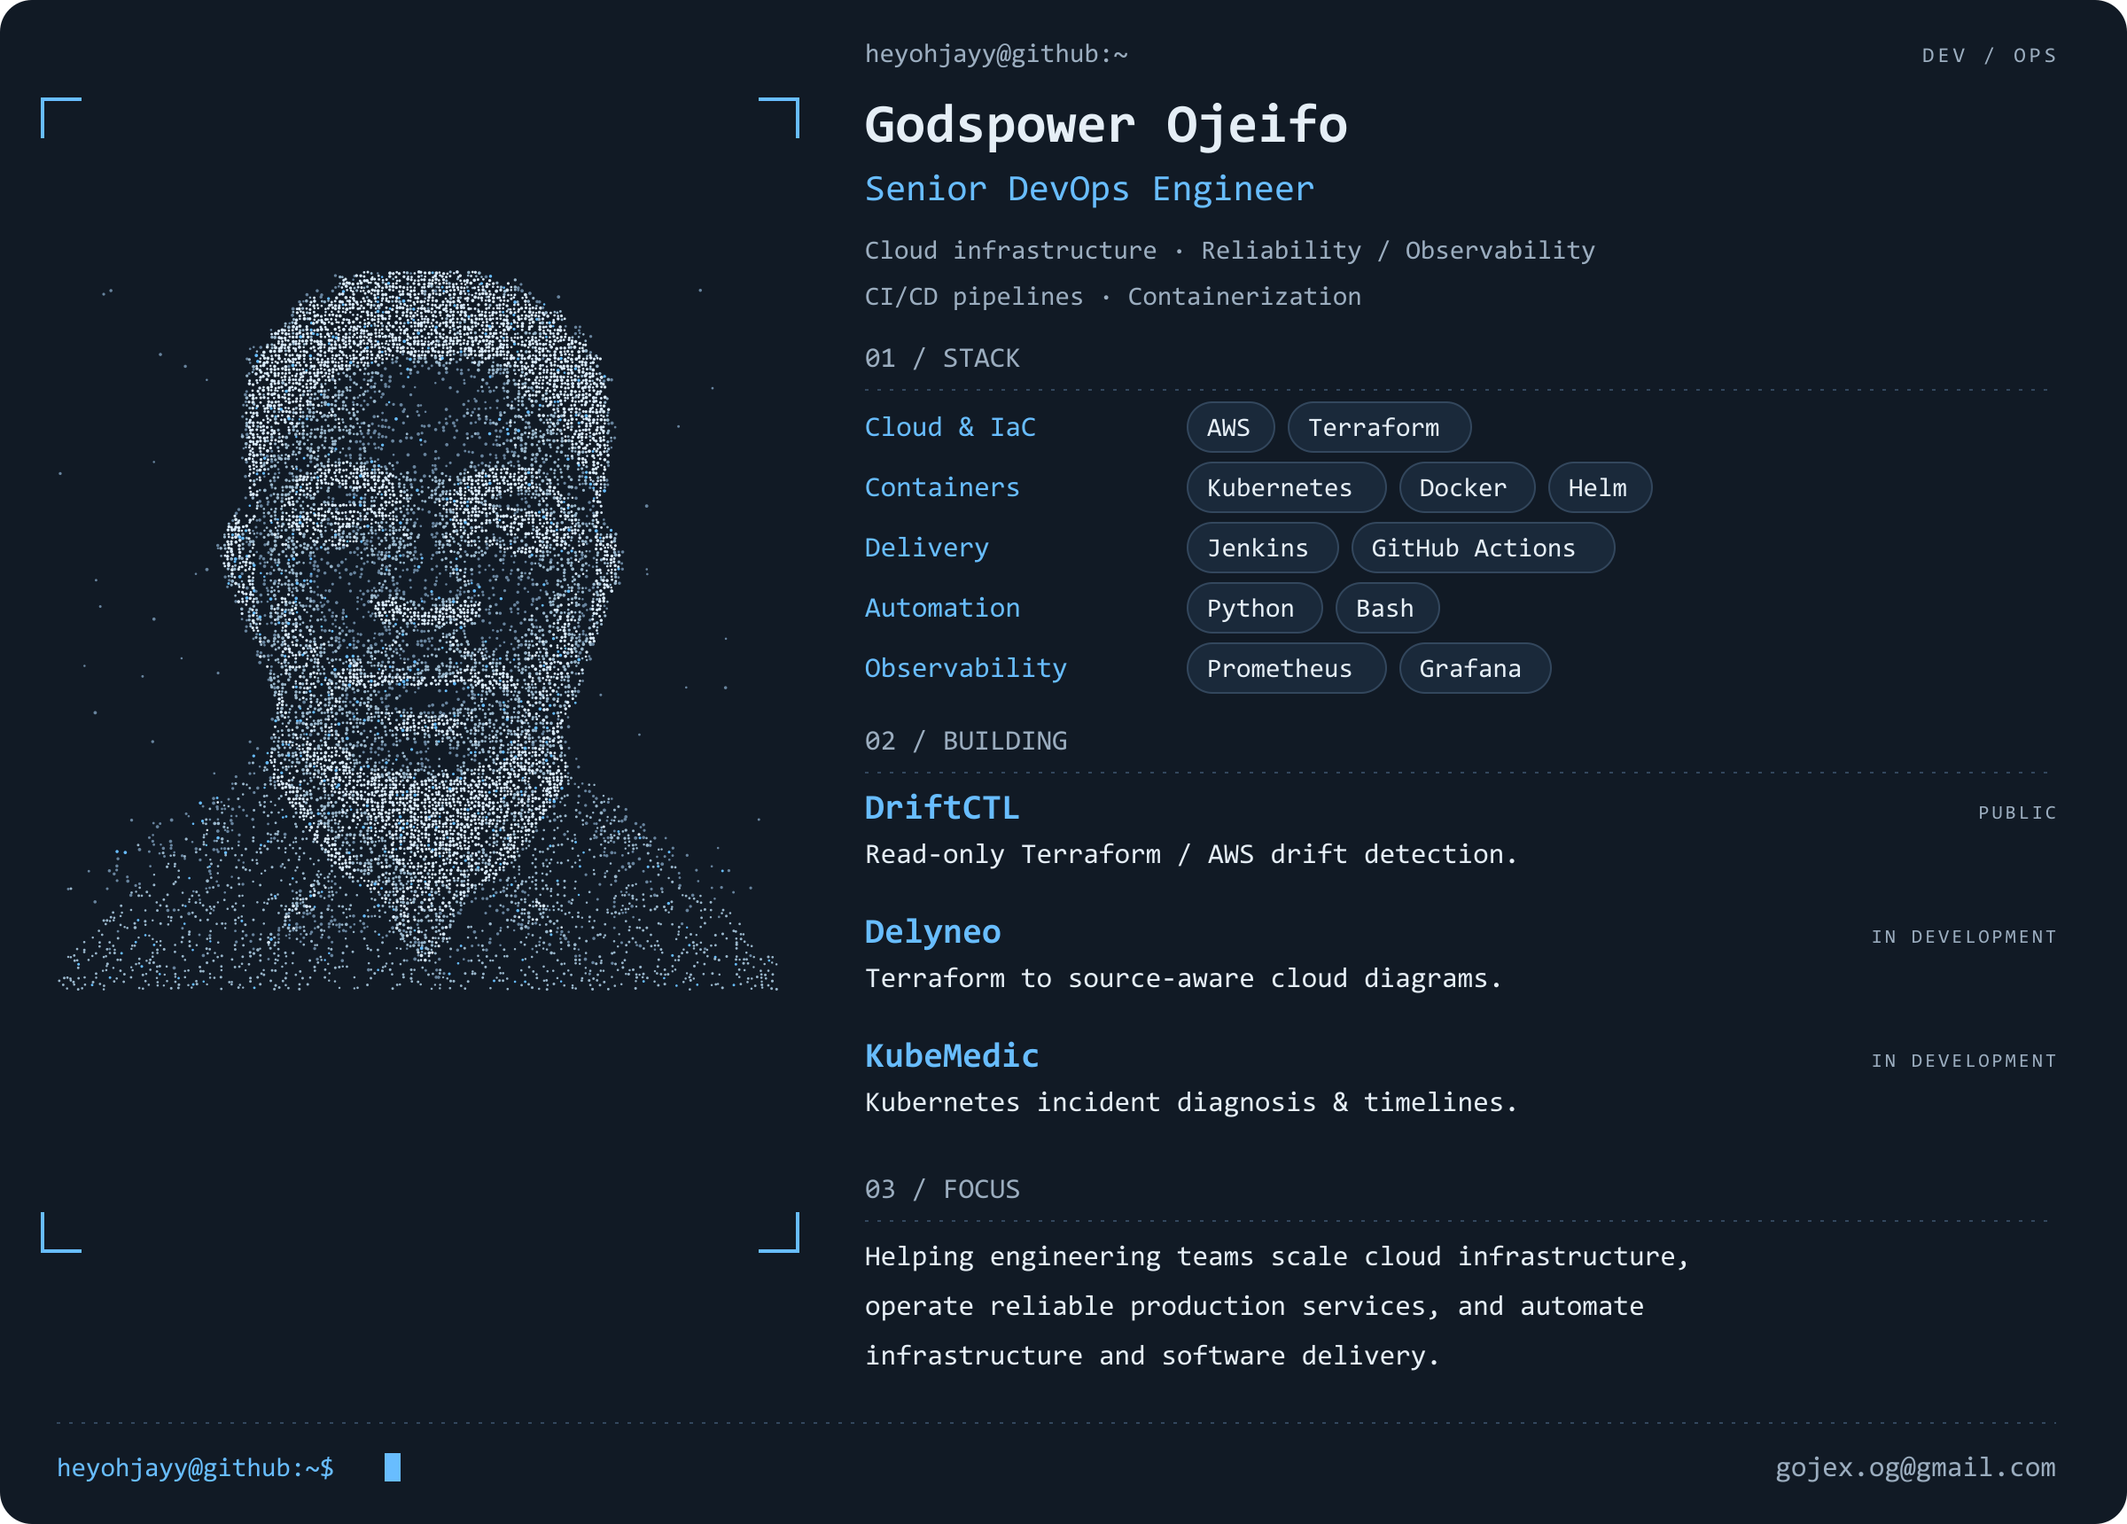
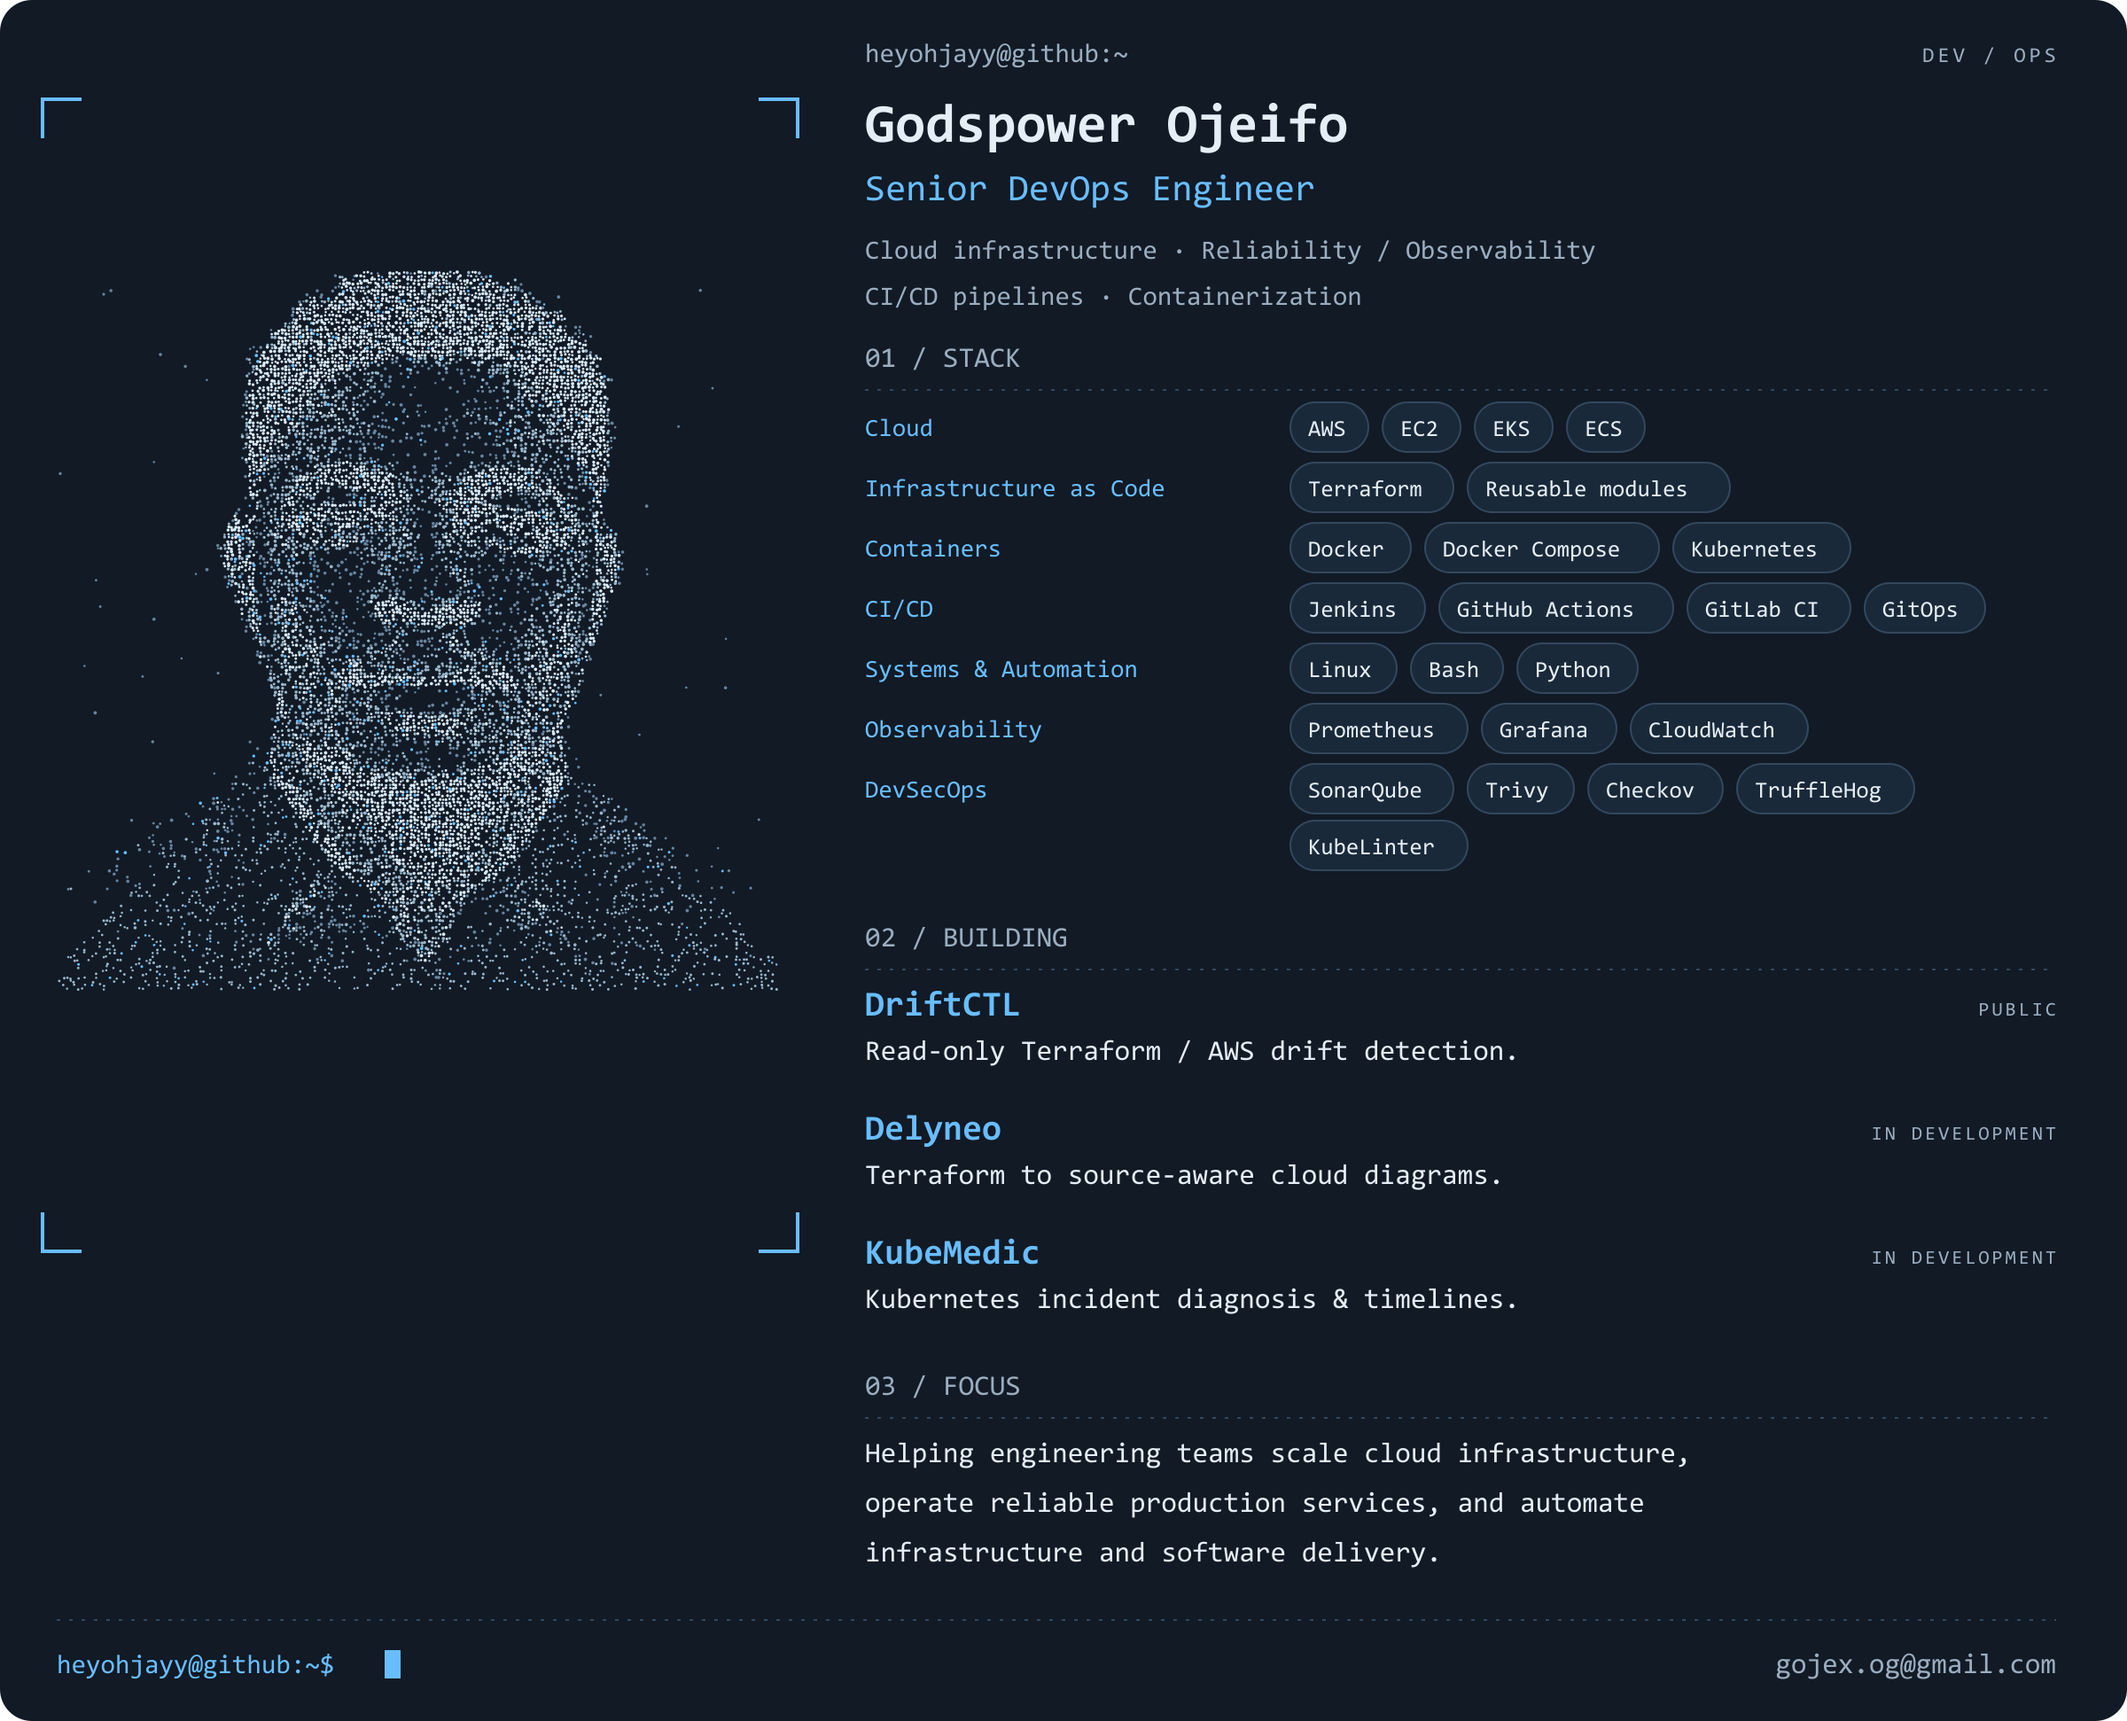
feat: expand profile stack to approved seven categories

diff --git a/site/index.html b/site/index.html
@@ -29,11 +29,13 @@
         <p class="role">Senior DevOps Engineer</p>
         <p class="summary">Cloud infrastructure · Reliability / Observability<br>CI/CD pipelines · Containerization</p>
         <section class="block"><h2>01 / STACK</h2><dl>
-          <div><dt>Cloud &amp; IaC</dt><dd>AWS <b>·</b> Terraform</dd></div>
-          <div><dt>Containers</dt><dd>Kubernetes <b>·</b> Docker <b>·</b> Helm</dd></div>
-          <div><dt>Delivery</dt><dd>Jenkins <b>·</b> GitHub Actions</dd></div>
-          <div><dt>Automation</dt><dd>Python <b>·</b> Bash</dd></div>
-          <div><dt>Observability</dt><dd>Prometheus <b>·</b> Grafana</dd></div>
+          <div><dt>Cloud</dt><dd>AWS <b>·</b> EC2 <b>·</b> EKS <b>·</b> ECS</dd></div>
+          <div><dt>Infrastructure as Code</dt><dd>Terraform <b>·</b> Reusable modules</dd></div>
+          <div><dt>Containers</dt><dd>Docker <b>·</b> Docker Compose <b>·</b> Kubernetes</dd></div>
+          <div><dt>CI/CD</dt><dd>Jenkins <b>·</b> GitHub Actions <b>·</b> GitLab CI <b>·</b> GitOps</dd></div>
+          <div><dt>Systems &amp; Automation</dt><dd>Linux <b>·</b> Bash <b>·</b> Python</dd></div>
+          <div><dt>Observability</dt><dd>Prometheus <b>·</b> Grafana <b>·</b> CloudWatch</dd></div>
+          <div><dt>DevSecOps</dt><dd>SonarQube <b>·</b> Trivy <b>·</b> Checkov <b>·</b> TruffleHog <b>·</b> KubeLinter</dd></div>
         </dl></section>
         <section class="block"><h2>02 / BUILDING</h2><div class="projects">
           <article><h3><a href="https://github.com/heyohjayy/DriftCTL">DriftCTL ↗</a><small>PUBLIC</small></h3><p>Read-only Terraform / AWS drift detection.</p></article>

diff --git a/site/style.css b/site/style.css
@@ -5,5 +5,6 @@
 @media(prefers-color-scheme:dark){:root{--bg:#111a25;--paper:#152130;--ink:#e5eef6;--muted:#9badbf;--blue:#68bdff;--line:#33475d;--tint:#1a293a}}
 #contributions.playing{touch-action:none}
 .stage{aspect-ratio:500/600}
+dl div{grid-template-columns:minmax(140px,185px) minmax(0,1fr);gap:16px}dd{overflow-wrap:normal}
 @media(max-width:900px){.card{margin:18px;padding:24px}.layout{gap:28px;grid-template-columns:1fr 1fr}dl div{grid-template-columns:1fr;gap:3px}.role{font-size:15px}.eyebrow{line-height:1.8}}
 @media(max-width:640px){.card{margin:10px;padding:20px 16px;border-radius:10px}.layout{grid-template-columns:1fr;gap:32px;padding-top:24px}.visual{position:relative;top:auto;max-width:460px;width:100%;margin:auto;order:1}.info{order:0}h1{font-size:52px;letter-spacing:-2px}.summary{font-size:12px}dl div{grid-template-columns:125px 1fr}.block{margin-bottom:22px}.desktop{display:none}footer{font-size:9px}nav{gap:26px}.stage{max-height:520px}}
